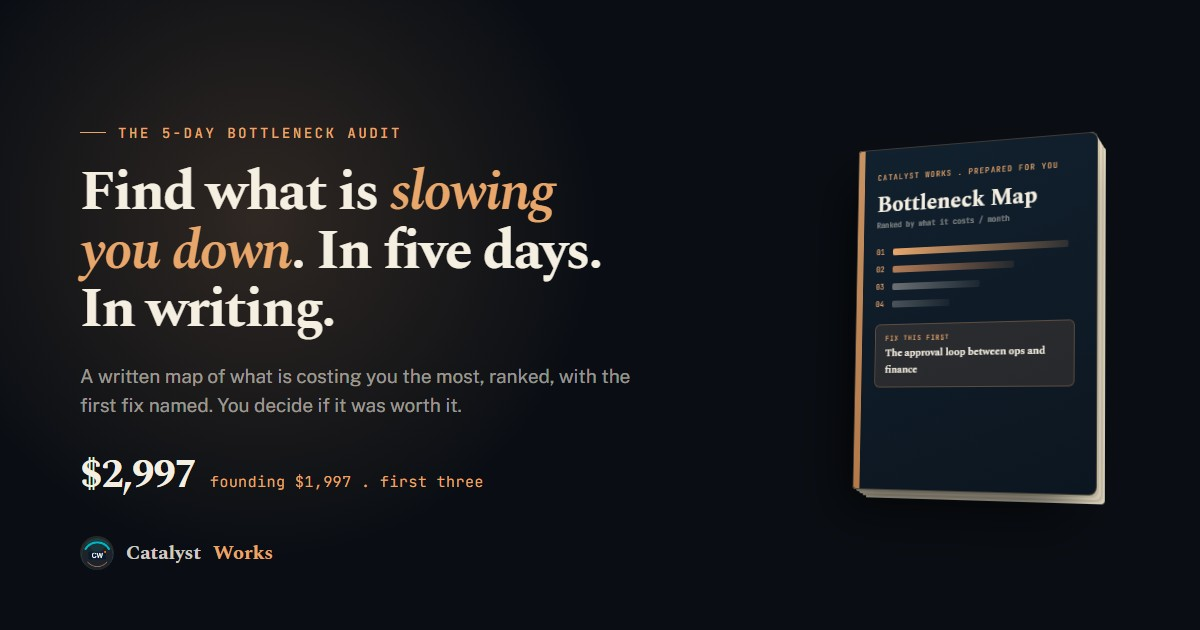
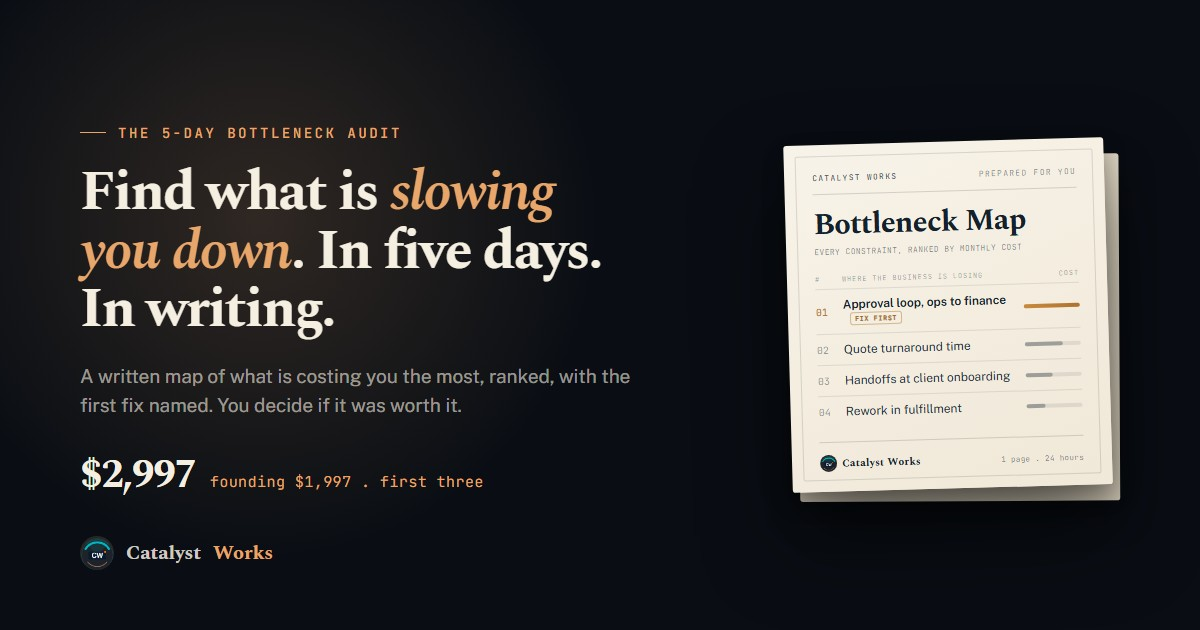
Bottleneck Audit hero: replace 3D book mockup with premium report cover
Feedback: the CSS 3D book + chunky amber progress bars read clip-arty.
Replaced with a real consulting-deliverable report cover: cream printed
page on the dark hero, realistic float shadow + one peeking sheet for
multi-page depth, fine printed frame, real typographic hierarchy (mono
masthead, Spectral title), and a refined ranked table (thin labeled cost
bars, no chunky blocks, a FIX FIRST tag, CW seal footer). Regenerated the
og:image with the same cover. No fabricated dollar figures - relative
cost bars only. Page copy and all other sections unchanged.

Claude-Session: https://claude.ai/code/session_01GeS2vucNsjk5CsrxBnjxxN

Changed region(s): [[0.6475, 0.2111, 0.9558, 0.8143]]

diff --git a/bottleneck-audit/index.html b/bottleneck-audit/index.html
@@ -108,64 +108,48 @@
     .hero-price b { color: var(--paper); font-weight: 600; }
     .hero-price .founding { color: var(--amber); }
 
-    /* 3D document mockup - the "Bottleneck Map" deliverable made tangible */
-    .mockup-stage { position: relative; z-index: 1; perspective: 1600px; display: flex; justify-content: center; }
-    .doc {
-      position: relative;
-      width: 300px; height: 400px;
-      transform: rotateY(-22deg) rotateX(5deg) rotate(-1.5deg);
-      transform-style: preserve-3d;
-      transition: transform 600ms var(--ease);
-    }
-    .mockup-stage:hover .doc { transform: rotateY(-15deg) rotateX(3deg) rotate(-0.5deg); }
-    /* stacked pages behind for depth */
-    .doc::after {
+    /* The deliverable as a real report cover: cream paper, ink type, refined ranked table */
+    .mockup-stage { position: relative; z-index: 1; display: flex; justify-content: center; }
+    .report { position: relative; width: 358px; transform: rotate(-1.6deg); }
+    .report::before { /* one sheet peeking behind = multi-page document, not a chunky stack */
       content: ''; position: absolute; inset: 0;
-      border-radius: 4px 8px 8px 4px;
-      background: var(--paper-2, #E8DFCB);
-      box-shadow:
-        3px 3px 0 -1px #d8ccb0, 6px 6px 0 -2px #e8dfcb,
-        9px 9px 0 -3px #d8ccb0, 12px 12px 0 -4px #e8dfcb;
-      transform: translateZ(-8px);
+      background: #E4DBC7; border-radius: 3px;
+      transform: translate(11px, 13px) rotate(1.3deg);
+      box-shadow: 0 14px 34px rgba(0,0,0,0.34);
       z-index: -1;
     }
-    .doc-face {
-      position: absolute; inset: 0;
-      border-radius: 4px 8px 8px 4px;
-      background: linear-gradient(160deg, #12212F 0%, #0C1620 100%);
-      border: 1px solid rgba(232,166,107,0.22);
-      box-shadow: -22px 30px 60px rgba(0,0,0,0.6);
-      padding: 26px 24px;
-      overflow: hidden;
+    .report-cover {
+      position: relative;
+      background: linear-gradient(157deg, #F8F3E9 0%, #F0E8D8 100%);
+      border-radius: 3px;
+      padding: 30px 30px 22px;
+      color: #17222E;
+      box-shadow: 0 44px 84px rgba(0,0,0,0.55), 0 10px 22px rgba(0,0,0,0.32);
     }
-    .doc-face::before { /* spine */
-      content: ''; position: absolute; top: 0; bottom: 0; left: 0; width: 8px;
-      background: linear-gradient(180deg, var(--amber), var(--amber-2, #D08A50));
-      opacity: 0.85;
+    .report-cover::after { /* fine printed frame */
+      content: ''; position: absolute; inset: 12px; border: 1px solid rgba(23,34,46,0.14); border-radius: 2px; pointer-events: none;
     }
-    .doc-eyebrow { font-family: var(--mono); font-size: 8.5px; letter-spacing: 0.18em; text-transform: uppercase; color: var(--amber); margin-bottom: 14px; }
-    .doc-title { font-family: var(--serif); font-size: 26px; font-weight: 700; color: var(--paper); line-height: 1.05; letter-spacing: -0.02em; margin-bottom: 4px; }
-    .doc-sub { font-family: var(--mono); font-size: 8.5px; color: var(--t-muted); letter-spacing: 0.06em; margin-bottom: 20px; }
-    .doc-rows { display: flex; flex-direction: column; gap: 9px; }
-    .doc-row { display: flex; align-items: center; gap: 8px; }
-    .doc-rank { font-family: var(--mono); font-size: 9px; color: var(--amber); width: 14px; flex-shrink: 0; }
-    .doc-bar { height: 8px; border-radius: 2px; background: linear-gradient(90deg, var(--amber), rgba(232,166,107,0.15)); }
-    .doc-bar.b1 { width: 88%; }
-    .doc-bar.b2 { width: 64%; background: linear-gradient(90deg, var(--clay,#B47C57), rgba(180,124,87,0.12)); }
-    .doc-bar.b3 { width: 47%; background: linear-gradient(90deg, rgba(245,239,226,0.4), rgba(245,239,226,0.05)); }
-    .doc-bar.b4 { width: 33%; background: linear-gradient(90deg, rgba(245,239,226,0.28), rgba(245,239,226,0.04)); }
-    .doc-bar.b5 { width: 22%; background: linear-gradient(90deg, rgba(245,239,226,0.2), rgba(245,239,226,0.03)); }
-    .doc-firstfix {
-      margin-top: 20px; padding: 10px 12px; border-radius: 6px;
-      background: rgba(232,166,107,0.12); border: 1px solid rgba(232,166,107,0.28);
-    }
-    .doc-firstfix .lbl { font-family: var(--mono); font-size: 7.5px; letter-spacing: 0.16em; text-transform: uppercase; color: var(--amber); }
-    .doc-firstfix .txt { font-family: var(--serif); font-size: 12px; color: var(--paper); margin-top: 3px; line-height: 1.3; }
-    .doc-stamp {
-      position: absolute; bottom: 20px; right: 20px;
-      font-family: var(--mono); font-size: 7px; letter-spacing: 0.1em;
-      color: var(--t-dim); text-align: right; line-height: 1.4;
-    }
+    .rc-masthead { display: flex; justify-content: space-between; align-items: baseline; font-family: var(--mono); font-size: 8px; letter-spacing: 0.16em; text-transform: uppercase; color: rgba(23,34,46,0.5); }
+    .rc-masthead b { font-weight: 500; color: rgba(23,34,46,0.72); }
+    .rc-hr { height: 1px; background: rgba(23,34,46,0.16); margin: 12px 0 16px; }
+    .rc-title { font-family: var(--serif); font-size: 32px; font-weight: 700; letter-spacing: -0.025em; color: #14202B; line-height: 1; }
+    .rc-sub { font-family: var(--mono); font-size: 8px; letter-spacing: 0.05em; color: rgba(23,34,46,0.52); margin-top: 7px; text-transform: uppercase; }
+    .rc-colhead { display: grid; grid-template-columns: 20px 1fr 62px; gap: 10px; font-family: var(--mono); font-size: 7px; letter-spacing: 0.12em; text-transform: uppercase; color: rgba(23,34,46,0.4); margin: 20px 0 6px; }
+    .rc-colhead span:last-child { text-align: right; }
+    .rc-row { display: grid; grid-template-columns: 20px 1fr 62px; gap: 10px; align-items: center; padding: 9px 0; border-top: 1px solid rgba(23,34,46,0.10); }
+    .rc-rank { font-family: var(--mono); font-size: 10px; color: rgba(23,34,46,0.45); }
+    .rc-name { font-size: 12.5px; color: #26333F; line-height: 1.25; }
+    .rc-track { position: relative; height: 4px; border-radius: 2px; background: rgba(23,34,46,0.09); }
+    .rc-track i { position: absolute; inset: 0 auto 0 0; height: 100%; border-radius: 2px; background: rgba(23,34,46,0.32); }
+    .rc-row.is-first .rc-rank { color: #B0722C; }
+    .rc-row.is-first .rc-name { font-weight: 600; color: #14202B; }
+    .rc-row.is-first .rc-track i { background: linear-gradient(90deg, #C98A3F, #B0722C); }
+    .rc-tag { display: inline-block; margin-left: 8px; font-family: var(--mono); font-size: 7px; letter-spacing: 0.12em; text-transform: uppercase; color: #A5691F; border: 1px solid rgba(176,114,44,0.45); border-radius: 3px; padding: 1px 5px; vertical-align: 1px; }
+    .rc-foot { display: flex; justify-content: space-between; align-items: center; gap: 14px; margin-top: 16px; padding-top: 13px; border-top: 1px solid rgba(23,34,46,0.16); font-family: var(--mono); font-size: 8px; letter-spacing: 0.05em; color: rgba(23,34,46,0.55); }
+    .rc-foot > span:last-child { text-align: right; flex-shrink: 0; }
+    .rc-seal { display: inline-flex; align-items: center; gap: 6px; }
+    .rc-seal img { width: 18px; height: 18px; border-radius: 50%; }
+    .rc-seal b { font-family: var(--serif); font-size: 11px; font-weight: 700; color: #14202B; letter-spacing: -0.01em; }
 
     /* THE FIVE DAYS - a vertical timeline, not a card grid */
     .days { max-width: 820px; margin: 8px 0 0; list-style: none; position: relative; }
@@ -213,7 +197,9 @@
     }
     @media (max-width: 480px) {
       .audit-hero { padding: 96px 20px 28px; }
-      .doc { width: 250px; height: 334px; }
+      .report { width: 300px; }
+      .report-cover { padding: 24px 22px 18px; }
+      .rc-title { font-size: 27px; }
     }
   </style>
 </head>
@@ -277,23 +263,42 @@
     </div>
   </div>
   <div class="mockup-stage" aria-hidden="true">
-    <div class="doc">
-      <div class="doc-face">
-        <div class="doc-eyebrow">Catalyst Works . Prepared for you</div>
-        <div class="doc-title">Bottleneck Map</div>
-        <div class="doc-sub">Ranked by what it costs you / month</div>
-        <div class="doc-rows">
-          <div class="doc-row"><span class="doc-rank">01</span><span class="doc-bar b1"></span></div>
-          <div class="doc-row"><span class="doc-rank">02</span><span class="doc-bar b2"></span></div>
-          <div class="doc-row"><span class="doc-rank">03</span><span class="doc-bar b3"></span></div>
-          <div class="doc-row"><span class="doc-rank">04</span><span class="doc-bar b4"></span></div>
-          <div class="doc-row"><span class="doc-rank">05</span><span class="doc-bar b5"></span></div>
+    <div class="report">
+      <div class="report-cover">
+        <div class="rc-masthead"><b>Catalyst Works</b><span>Prepared for you</span></div>
+        <div class="rc-hr"></div>
+        <div class="rc-title">Bottleneck Map</div>
+        <div class="rc-sub">Every constraint, ranked by monthly cost</div>
+        <div class="rc-colhead"><span>#</span><span>Where the business is losing</span><span>Cost</span></div>
+        <div class="rc-row is-first">
+          <span class="rc-rank">01</span>
+          <span class="rc-name">Approval loop, ops to finance<span class="rc-tag">Fix first</span></span>
+          <span class="rc-track"><i style="width:100%"></i></span>
         </div>
-        <div class="doc-firstfix">
-          <div class="lbl">Fix this first</div>
-          <div class="txt">The approval loop between ops and finance</div>
+        <div class="rc-row">
+          <span class="rc-rank">02</span>
+          <span class="rc-name">Quote turnaround time</span>
+          <span class="rc-track"><i style="width:68%"></i></span>
         </div>
-        <div class="doc-stamp">1 page<br>in 24 hours</div>
+        <div class="rc-row">
+          <span class="rc-rank">03</span>
+          <span class="rc-name">Handoffs at client onboarding</span>
+          <span class="rc-track"><i style="width:49%"></i></span>
+        </div>
+        <div class="rc-row">
+          <span class="rc-rank">04</span>
+          <span class="rc-name">Rework in fulfillment</span>
+          <span class="rc-track"><i style="width:34%"></i></span>
+        </div>
+        <div class="rc-row">
+          <span class="rc-rank">05</span>
+          <span class="rc-name">Manual weekly reporting</span>
+          <span class="rc-track"><i style="width:22%"></i></span>
+        </div>
+        <div class="rc-foot">
+          <span class="rc-seal"><img src="../CatalystWorks_logo.jpg" alt=""><b>Catalyst Works</b></span>
+          <span>1 page . delivered in 24 hours</span>
+        </div>
       </div>
     </div>
   </div>

diff --git a/bottleneck-audit/og-bottleneck-audit.html b/bottleneck-audit/og-bottleneck-audit.html
@@ -32,32 +32,35 @@
     .brand img { width: 34px; height: 34px; border-radius: 50%; }
     .brand span { color: #E8A66B; }
 
-    /* 3D document mockup on the right */
-    .stage { position: absolute; right: 96px; top: 50%; transform: translateY(-50%); perspective: 1400px; z-index: 1; }
-    .doc { position: relative; width: 264px; height: 352px;
-      transform: rotateY(-24deg) rotateX(5deg) rotate(-1.5deg); }
-    .doc::after { content: ''; position: absolute; inset: 0; border-radius: 4px 8px 8px 4px;
-      background: #E8DFCB; box-shadow: 3px 3px 0 -1px #d8ccb0, 6px 6px 0 -2px #e8dfcb, 9px 9px 0 -3px #d8ccb0, 12px 12px 0 -4px #e8dfcb; z-index: -1; }
-    .doc-face { position: absolute; inset: 0; border-radius: 4px 8px 8px 4px;
-      background: linear-gradient(160deg, #12212F 0%, #0C1620 100%);
-      border: 1px solid rgba(232,166,107,0.24); box-shadow: -20px 26px 54px rgba(0,0,0,0.6);
-      padding: 24px 22px; overflow: hidden; }
-    .doc-face::before { content: ''; position: absolute; top: 0; bottom: 0; left: 0; width: 7px;
-      background: linear-gradient(180deg, #E8A66B, #D08A50); opacity: 0.85; }
-    .doc-eyebrow { font-family: 'JetBrains Mono', monospace; font-size: 8px; letter-spacing: 0.16em; text-transform: uppercase; color: #E8A66B; margin-bottom: 12px; }
-    .doc-title { font-family: 'Spectral', serif; font-size: 24px; font-weight: 700; color: #F5EFE2; line-height: 1.05; margin-bottom: 3px; }
-    .doc-sub { font-family: 'JetBrains Mono', monospace; font-size: 8px; color: rgba(245,239,226,0.5); margin-bottom: 18px; }
-    .rows { display: flex; flex-direction: column; gap: 8px; }
-    .row { display: flex; align-items: center; gap: 7px; }
-    .rk { font-family: 'JetBrains Mono', monospace; font-size: 8px; color: #E8A66B; width: 12px; }
-    .bar { height: 7px; border-radius: 2px; }
-    .b1 { width: 88%; background: linear-gradient(90deg, #E8A66B, rgba(232,166,107,0.14)); }
-    .b2 { width: 62%; background: linear-gradient(90deg, #B47C57, rgba(180,124,87,0.12)); }
-    .b3 { width: 45%; background: linear-gradient(90deg, rgba(245,239,226,0.4), rgba(245,239,226,0.05)); }
-    .b4 { width: 30%; background: linear-gradient(90deg, rgba(245,239,226,0.26), rgba(245,239,226,0.04)); }
-    .fix { margin-top: 16px; padding: 9px 11px; border-radius: 6px; background: rgba(232,166,107,0.12); border: 1px solid rgba(232,166,107,0.28); }
-    .fix .l { font-family: 'JetBrains Mono', monospace; font-size: 7px; letter-spacing: 0.14em; text-transform: uppercase; color: #E8A66B; }
-    .fix .t { font-family: 'Spectral', serif; font-size: 11px; color: #F5EFE2; margin-top: 2px; }
+    /* The deliverable as a real report cover: cream paper, ink type, ranked table */
+    .stage { position: absolute; right: 92px; top: 50%; transform: translateY(-50%) rotate(-1.6deg); z-index: 1; }
+    .report { position: relative; width: 320px; }
+    .report::before { content: ''; position: absolute; inset: 0; background: #E4DBC7; border-radius: 3px;
+      transform: translate(11px, 13px) rotate(1.3deg); box-shadow: 0 14px 34px rgba(0,0,0,0.34); z-index: -1; }
+    .report-cover { position: relative; background: linear-gradient(157deg, #F8F3E9 0%, #F0E8D8 100%);
+      border-radius: 3px; padding: 28px 28px 20px; color: #17222E;
+      box-shadow: 0 44px 84px rgba(0,0,0,0.55), 0 10px 22px rgba(0,0,0,0.32); }
+    .report-cover::after { content: ''; position: absolute; inset: 11px; border: 1px solid rgba(23,34,46,0.14); border-radius: 2px; }
+    .rc-masthead { display: flex; justify-content: space-between; align-items: baseline; font-family: 'JetBrains Mono', monospace; font-size: 8px; letter-spacing: 0.16em; text-transform: uppercase; color: rgba(23,34,46,0.5); }
+    .rc-masthead b { font-weight: 500; color: rgba(23,34,46,0.72); }
+    .rc-hr { height: 1px; background: rgba(23,34,46,0.16); margin: 11px 0 15px; }
+    .rc-title { font-family: 'Spectral', serif; font-size: 30px; font-weight: 700; letter-spacing: -0.025em; color: #14202B; line-height: 1; }
+    .rc-sub { font-family: 'JetBrains Mono', monospace; font-size: 8px; letter-spacing: 0.05em; color: rgba(23,34,46,0.52); margin-top: 7px; text-transform: uppercase; }
+    .rc-colhead { display: grid; grid-template-columns: 18px 1fr 56px; gap: 9px; font-family: 'JetBrains Mono', monospace; font-size: 7px; letter-spacing: 0.12em; text-transform: uppercase; color: rgba(23,34,46,0.4); margin: 18px 0 5px; }
+    .rc-colhead span:last-child { text-align: right; }
+    .rc-row { display: grid; grid-template-columns: 18px 1fr 56px; gap: 9px; align-items: center; padding: 8px 0; border-top: 1px solid rgba(23,34,46,0.10); }
+    .rc-rank { font-family: 'JetBrains Mono', monospace; font-size: 10px; color: rgba(23,34,46,0.45); }
+    .rc-name { font-family: 'Public Sans', sans-serif; font-size: 12px; color: #26333F; }
+    .rc-track { position: relative; height: 4px; border-radius: 2px; background: rgba(23,34,46,0.09); }
+    .rc-track i { position: absolute; inset: 0 auto 0 0; height: 100%; border-radius: 2px; background: rgba(23,34,46,0.32); }
+    .rc-row.is-first .rc-rank { color: #B0722C; }
+    .rc-row.is-first .rc-name { font-weight: 600; color: #14202B; }
+    .rc-row.is-first .rc-track i { background: linear-gradient(90deg, #C98A3F, #B0722C); }
+    .rc-tag { display: inline-block; margin-left: 7px; font-family: 'JetBrains Mono', monospace; font-size: 6.5px; letter-spacing: 0.12em; text-transform: uppercase; color: #A5691F; border: 1px solid rgba(176,114,44,0.45); border-radius: 3px; padding: 1px 4px; vertical-align: 1px; }
+    .rc-foot { display: flex; justify-content: space-between; align-items: center; gap: 14px; margin-top: 15px; padding-top: 12px; border-top: 1px solid rgba(23,34,46,0.16); font-family: 'JetBrains Mono', monospace; font-size: 7.5px; letter-spacing: 0.05em; color: rgba(23,34,46,0.55); }
+    .rc-seal { display: inline-flex; align-items: center; gap: 5px; }
+    .rc-seal img { width: 17px; height: 17px; border-radius: 50%; }
+    .rc-seal b { font-family: 'Spectral', serif; font-size: 10.5px; font-weight: 700; color: #14202B; }
   </style>
 </head>
 <body>
@@ -69,18 +72,18 @@
     <div class="price"><span class="amt">$2,997</span><span class="founding">founding $1,997 . first three</span></div>
   </div>
   <div class="stage">
-    <div class="doc">
-      <div class="doc-face">
-        <div class="doc-eyebrow">Catalyst Works . Prepared for you</div>
-        <div class="doc-title">Bottleneck Map</div>
-        <div class="doc-sub">Ranked by what it costs / month</div>
-        <div class="rows">
-          <div class="row"><span class="rk">01</span><span class="bar b1"></span></div>
-          <div class="row"><span class="rk">02</span><span class="bar b2"></span></div>
-          <div class="row"><span class="rk">03</span><span class="bar b3"></span></div>
-          <div class="row"><span class="rk">04</span><span class="bar b4"></span></div>
-        </div>
-        <div class="fix"><div class="l">Fix this first</div><div class="t">The approval loop between ops and finance</div></div>
+    <div class="report">
+      <div class="report-cover">
+        <div class="rc-masthead"><b>Catalyst Works</b><span>Prepared for you</span></div>
+        <div class="rc-hr"></div>
+        <div class="rc-title">Bottleneck Map</div>
+        <div class="rc-sub">Every constraint, ranked by monthly cost</div>
+        <div class="rc-colhead"><span>#</span><span>Where the business is losing</span><span>Cost</span></div>
+        <div class="rc-row is-first"><span class="rc-rank">01</span><span class="rc-name">Approval loop, ops to finance<span class="rc-tag">Fix first</span></span><span class="rc-track"><i style="width:100%"></i></span></div>
+        <div class="rc-row"><span class="rc-rank">02</span><span class="rc-name">Quote turnaround time</span><span class="rc-track"><i style="width:68%"></i></span></div>
+        <div class="rc-row"><span class="rc-rank">03</span><span class="rc-name">Handoffs at client onboarding</span><span class="rc-track"><i style="width:49%"></i></span></div>
+        <div class="rc-row"><span class="rc-rank">04</span><span class="rc-name">Rework in fulfillment</span><span class="rc-track"><i style="width:34%"></i></span></div>
+        <div class="rc-foot"><span class="rc-seal"><img src="CatalystWorks_logo.jpg" alt=""><b>Catalyst Works</b></span><span>1 page . 24 hours</span></div>
       </div>
     </div>
   </div>